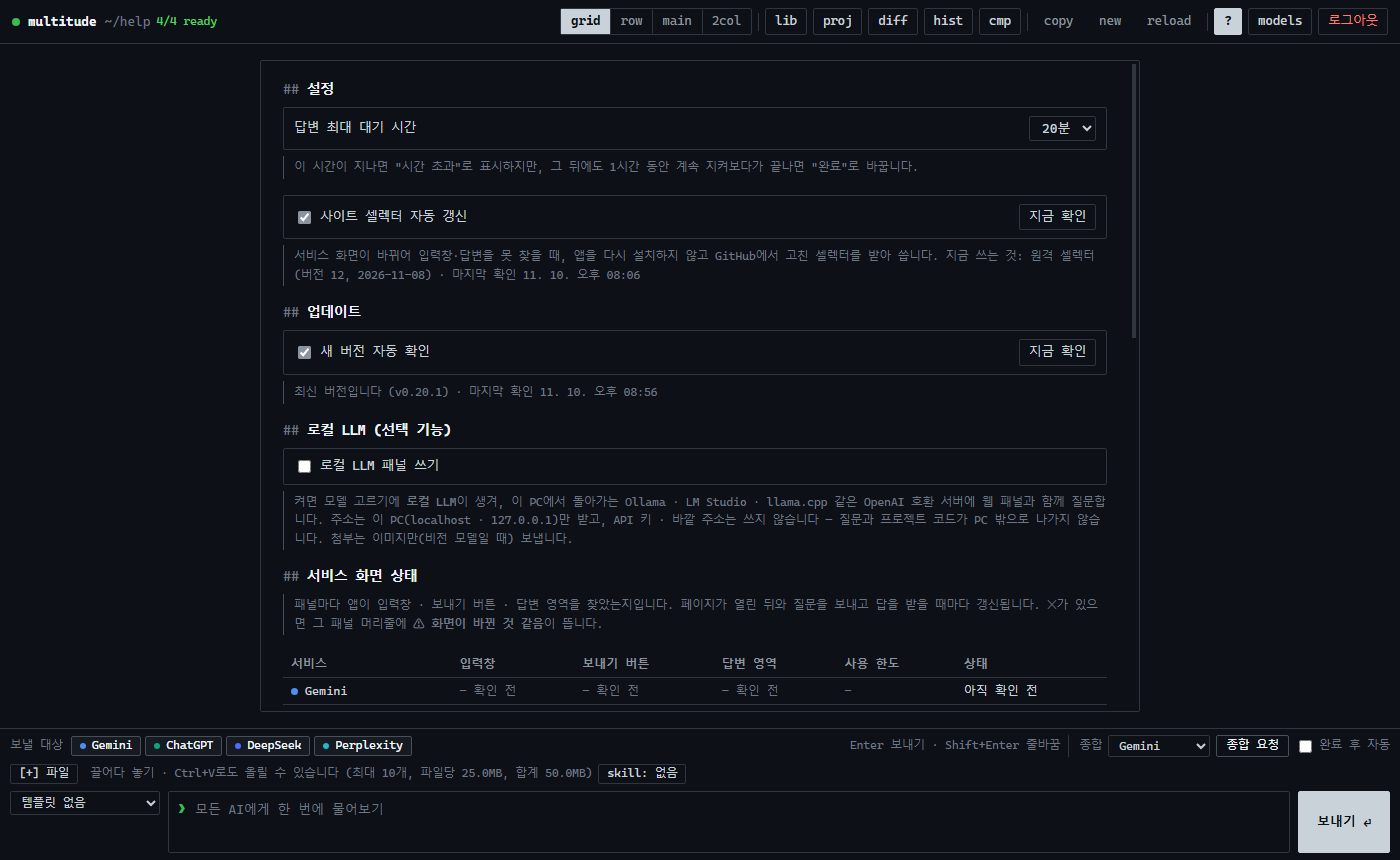
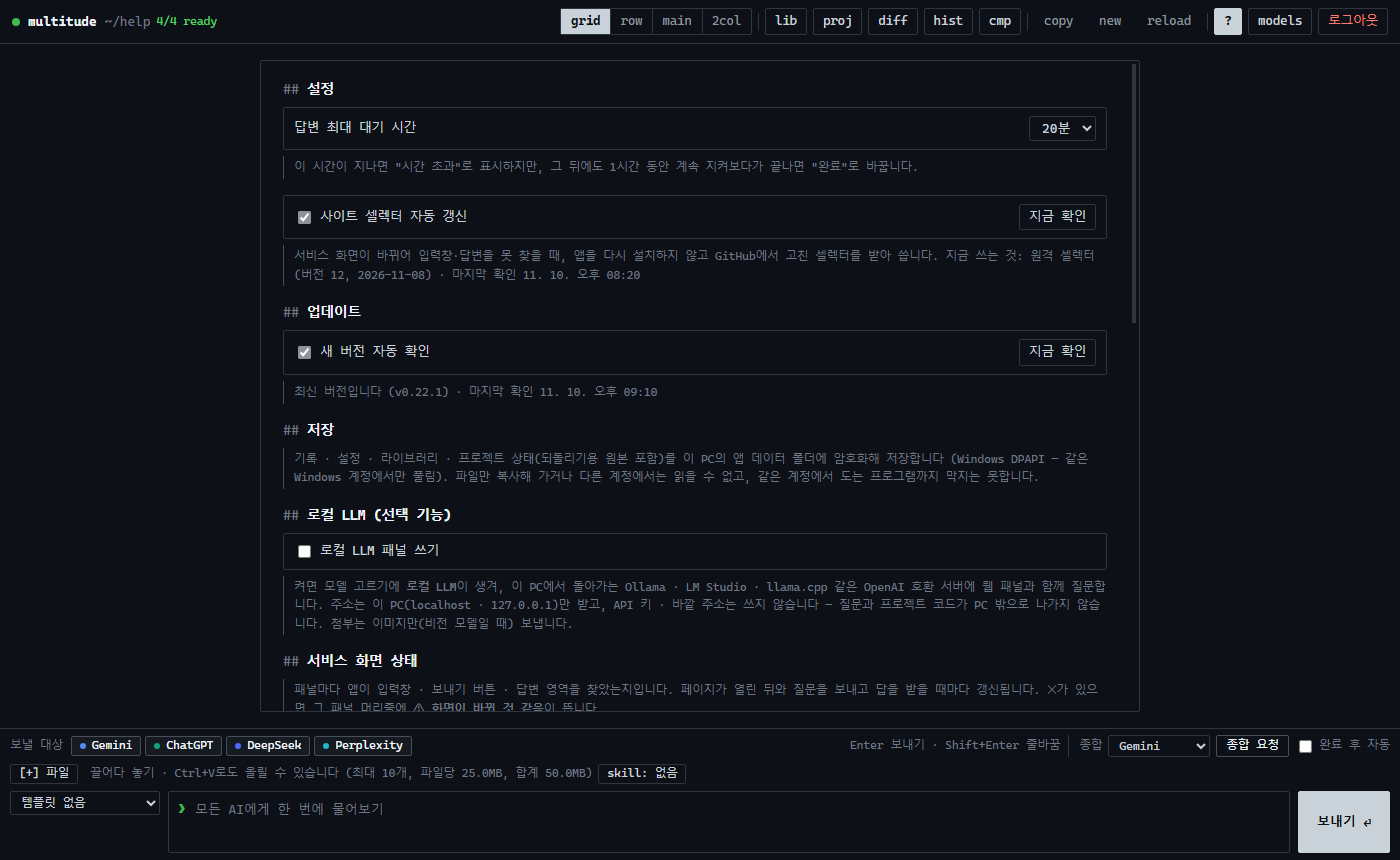
Refresh settings screenshot with the Update and Storage sections

Changed region(s): [[0.1843, 0.4837, 0.7986, 0.8465]]

diff --git a/scripts/screenshots/preload-app.js b/scripts/screenshots/preload-app.js
@@ -89,7 +89,8 @@ function push() {
     services: all.map((s) => ({ id: s.id, name: s.name, color: s.color, url: s.url, kind: s.kind || 'web', accept: uploadOf(s).accept, maxFileBytes: fileBytesOf(s) })),
     local: { enabled: LOCAL, baseUrl: 'http://localhost:11434', model: 'qwen2.5:7b' },
     autoUpdate: true,
-    update: { state: 'none', current: '0.20.1', version: '', percent: null, error: '', checkedAt: now - 600e3, canInstall: true },
+    update: { state: 'none', current: require('../../package.json').version, version: '', percent: null, error: '', checkedAt: now - 600e3, canInstall: true },
+    storage: { encrypted: true },
     rects: rs,
   });
 }
